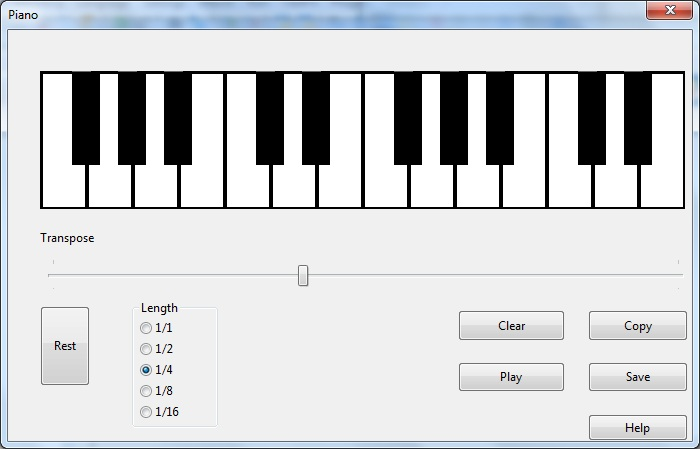
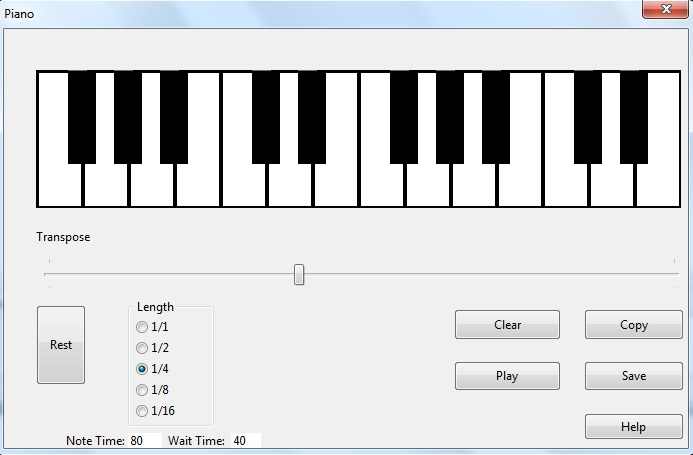
Updated the help documentation for the piano

Changed region(s): [[0.0, 0.0, 1.0, 1.0], [0.0606, 0.7795, 0.1515, 0.8731], [0.0606, 0.6548, 0.1212, 0.686]]

diff --git a/jbrick/help/html/Piano Composer.html b/jbrick/help/html/Piano Composer.html
@@ -25,12 +25,15 @@ keyboard shortcut. The keyboard shortcuts are as follows:</p>
 <br/>
 The transpose slider can be used to change the note to a higher chord.<br/>
 The rest button adds a rest to the recording at the set Length.<br/>
-Length sets the time the note will be played for or the duration of a rest.<br/>
 The clear button clears all of the keys from the recording.<br/>
 The copy button copies the nxc code to the clipboard that will play the stored recording.<br/>
 The play button plays back the notes and rests that have been added to the recording.<br/>
 The save button saves the nxc code that will play the stored recording.<br/>
 The help button opens the help browser to browse the help for the piano composer.<br/>
+The Note Length field specifies how long a note should play. This is modified directly by the Length factor for quickly
+changing how long the note will play by a divisor of 1 up to 16.<br/>
+The Wait Length field specifies how long of a pause there is between notes. This is modified directly by the Length factor for quickly
+changing how long the note will wait by a divisor of 1 up to 16.<br/>
 <br/>
 
 <img src="Piano Composer_files/PianoSS.jpg"/>
